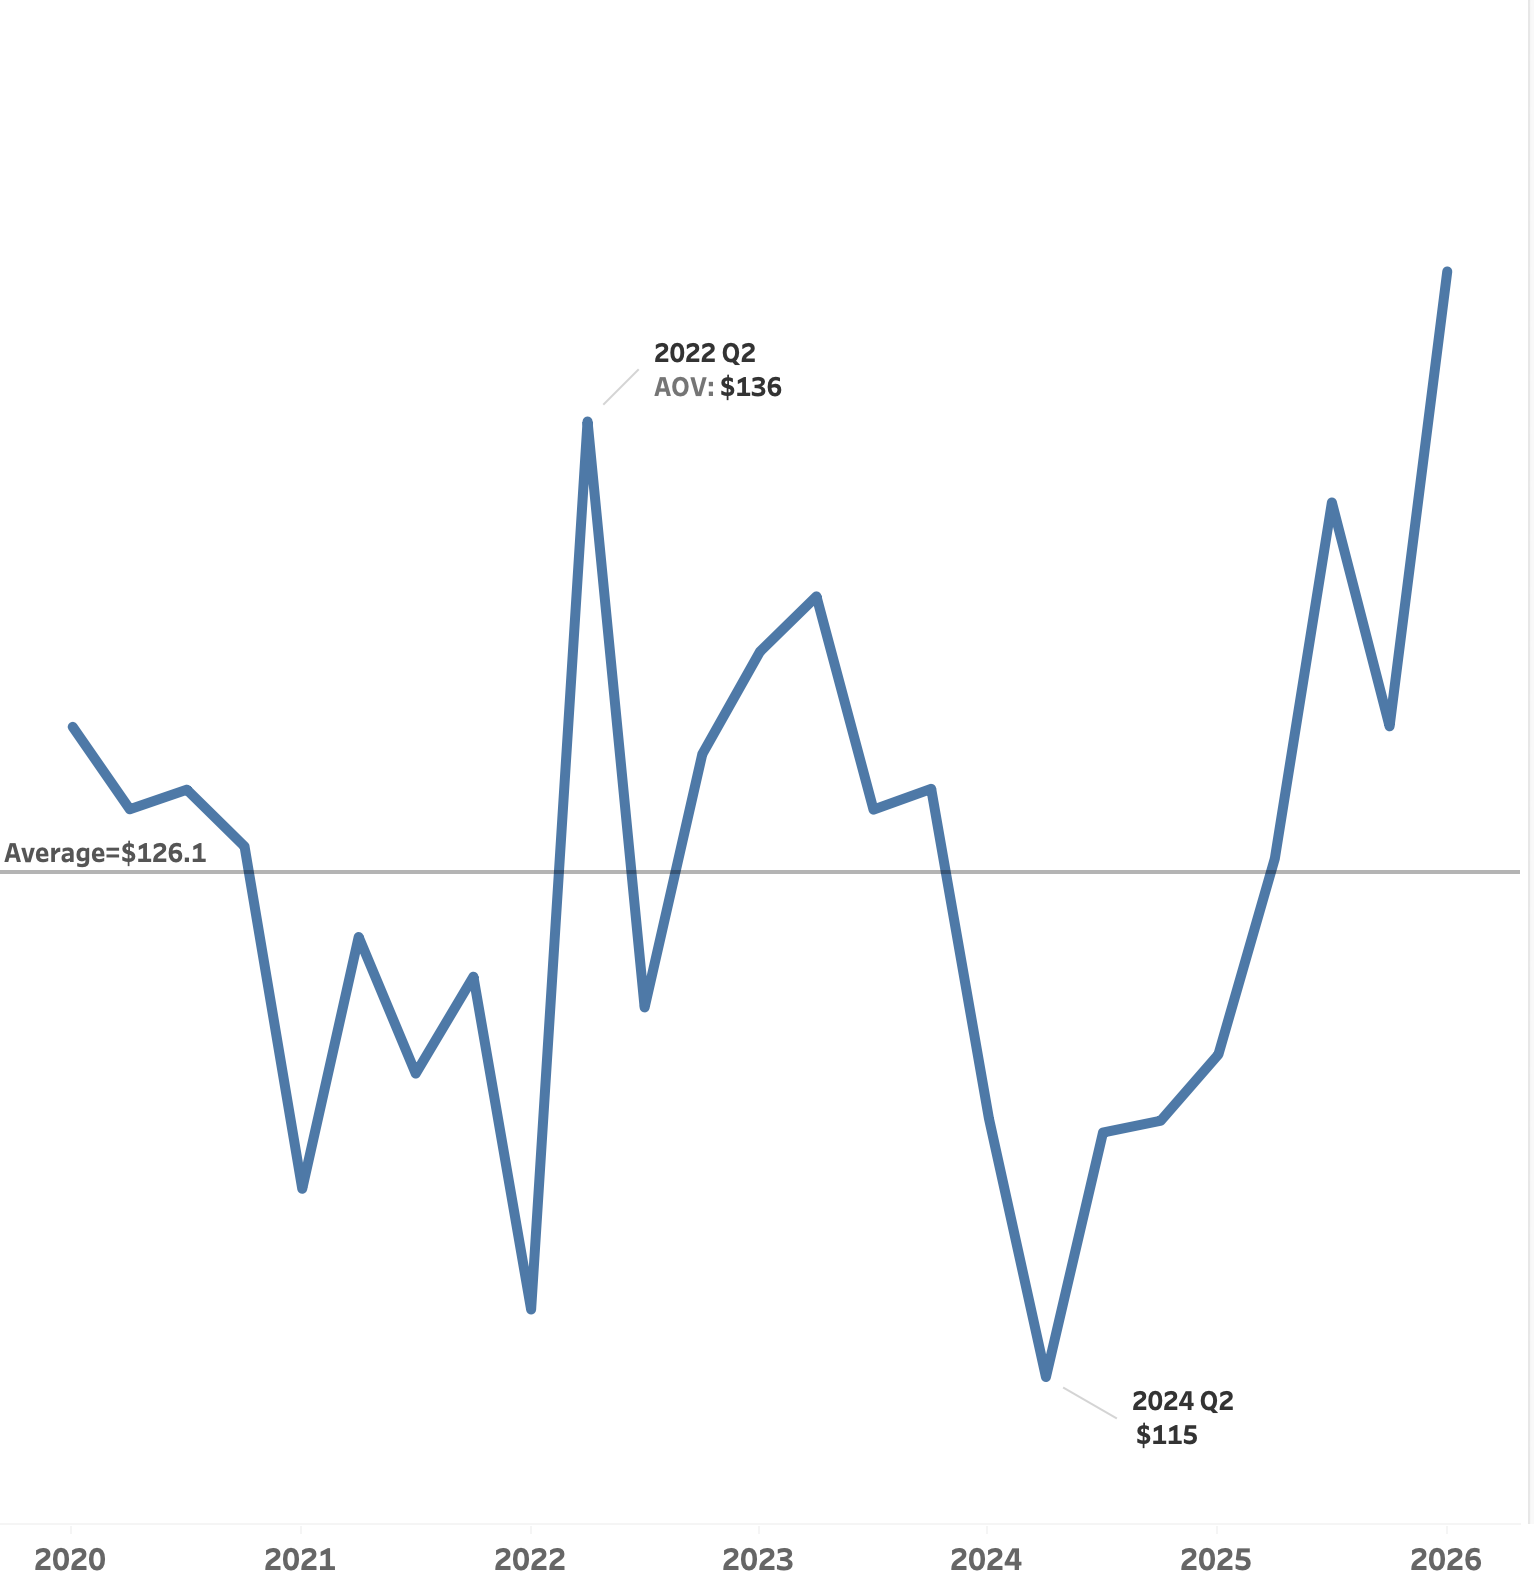
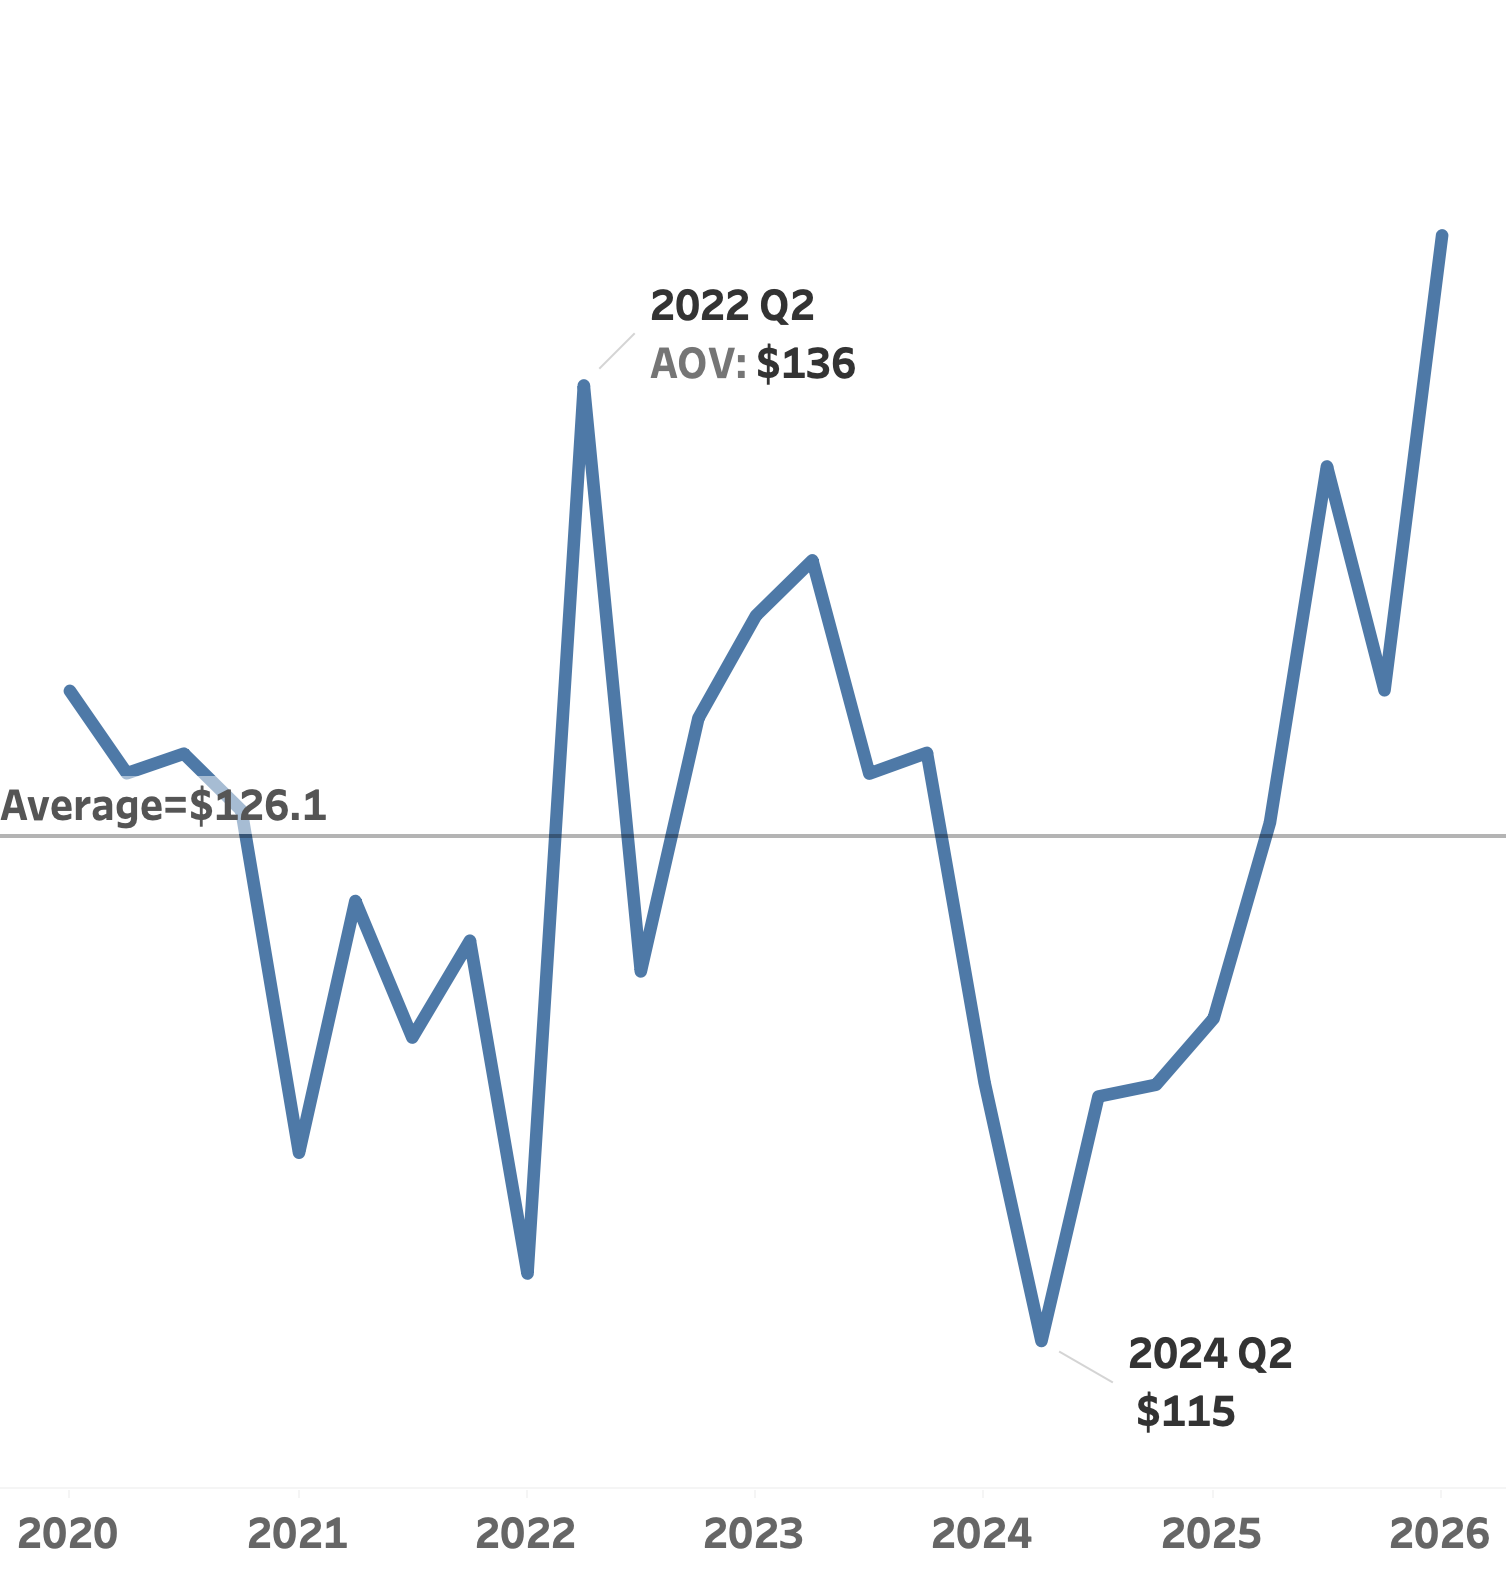
Replace AOV and order volume charts

diff --git a/README.md b/README.md
@@ -158,11 +158,11 @@
 <table align="center">
   <tr>
     <td width="450" align="center" valign="top">
-      <h2 align="center">Average Order Value.</h2>
+      <h5 align="center">Average Order Value</h5>
       <img width="400" alt="NexaCart quarterly average order value trend from 2020 to Q1 2026" src="reports/figures/quarterly-average-order-value-trend.png">
     </td>
     <td width="450" align="center" valign="top">
-      <h2 align="center">Order Volume</h2>
+      <h5 align="center">Order Volume</h5>
       <img width="400" alt="NexaCart quarterly delivered order volume trend from 2020 to Q1 2026" src="reports/figures/quarterly-delivered-orders-trend.png">
     </td>
   </tr>
